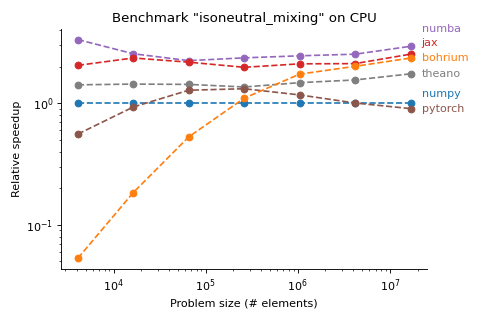
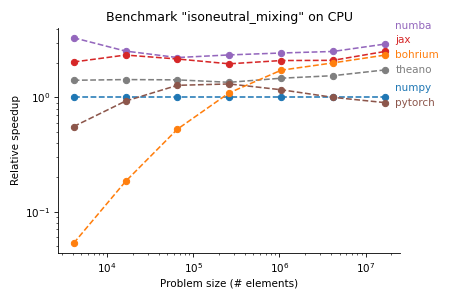
downscale plots more

diff --git a/plot.py b/plot.py
@@ -35,7 +35,7 @@ BACKEND_COLORS = {
 
 def plot_results(records, benchmark, platform, outfile, plot_delta=False):
     import matplotlib.pyplot as plt
-    fig, ax = plt.subplots(1, 1, figsize=(6, 4), dpi=80)
+    fig, ax = plt.subplots(1, 1, figsize=(6, 4), dpi=75)
 
     this_record = records[(benchmark, platform)]
     last_coords = {}

diff --git a/README.md b/README.md
@@ -164,18 +164,15 @@ $ for backend in bohrium jax cupy pytorch tensorflow; do
 
 #### Equation of state
 
-![Equation of state on CPU](results/magni-plots/bench-equation_of_state-CPU.png?raw=true)
-![Equation of state on GPU](results/magni-plots/bench-equation_of_state-GPU.png?raw=true)
+![Equation of state on CPU](results/magni-plots/bench-equation_of_state-CPU.png?raw=true) ![Equation of state on GPU](results/magni-plots/bench-equation_of_state-GPU.png?raw=true)
 
 #### Isoneutral mixing
 
-![Isoneutral mixing on CPU](results/magni-plots/bench-isoneutral_mixing-CPU.png?raw=true)
-![Isoneutral mixing on GPU](results/magni-plots/bench-isoneutral_mixing-GPU.png?raw=true)
+![Isoneutral mixing on CPU](results/magni-plots/bench-isoneutral_mixing-CPU.png?raw=true) ![Isoneutral mixing on GPU](results/magni-plots/bench-isoneutral_mixing-GPU.png?raw=true)
 
 #### Turbulent kinetic energy
 
-![Turbulent kinetic energy on CPU](results/magni-plots/bench-turbulent_kinetic_energy-CPU.png?raw=true)
-![Turbulent kinetic energy on GPU](results/magni-plots/bench-turbulent_kinetic_energy-GPU.png?raw=true)
+![Turbulent kinetic energy on CPU](results/magni-plots/bench-turbulent_kinetic_energy-CPU.png?raw=true) ![Turbulent kinetic energy on GPU](results/magni-plots/bench-turbulent_kinetic_energy-GPU.png?raw=true)
 
 ### Full reports
 
